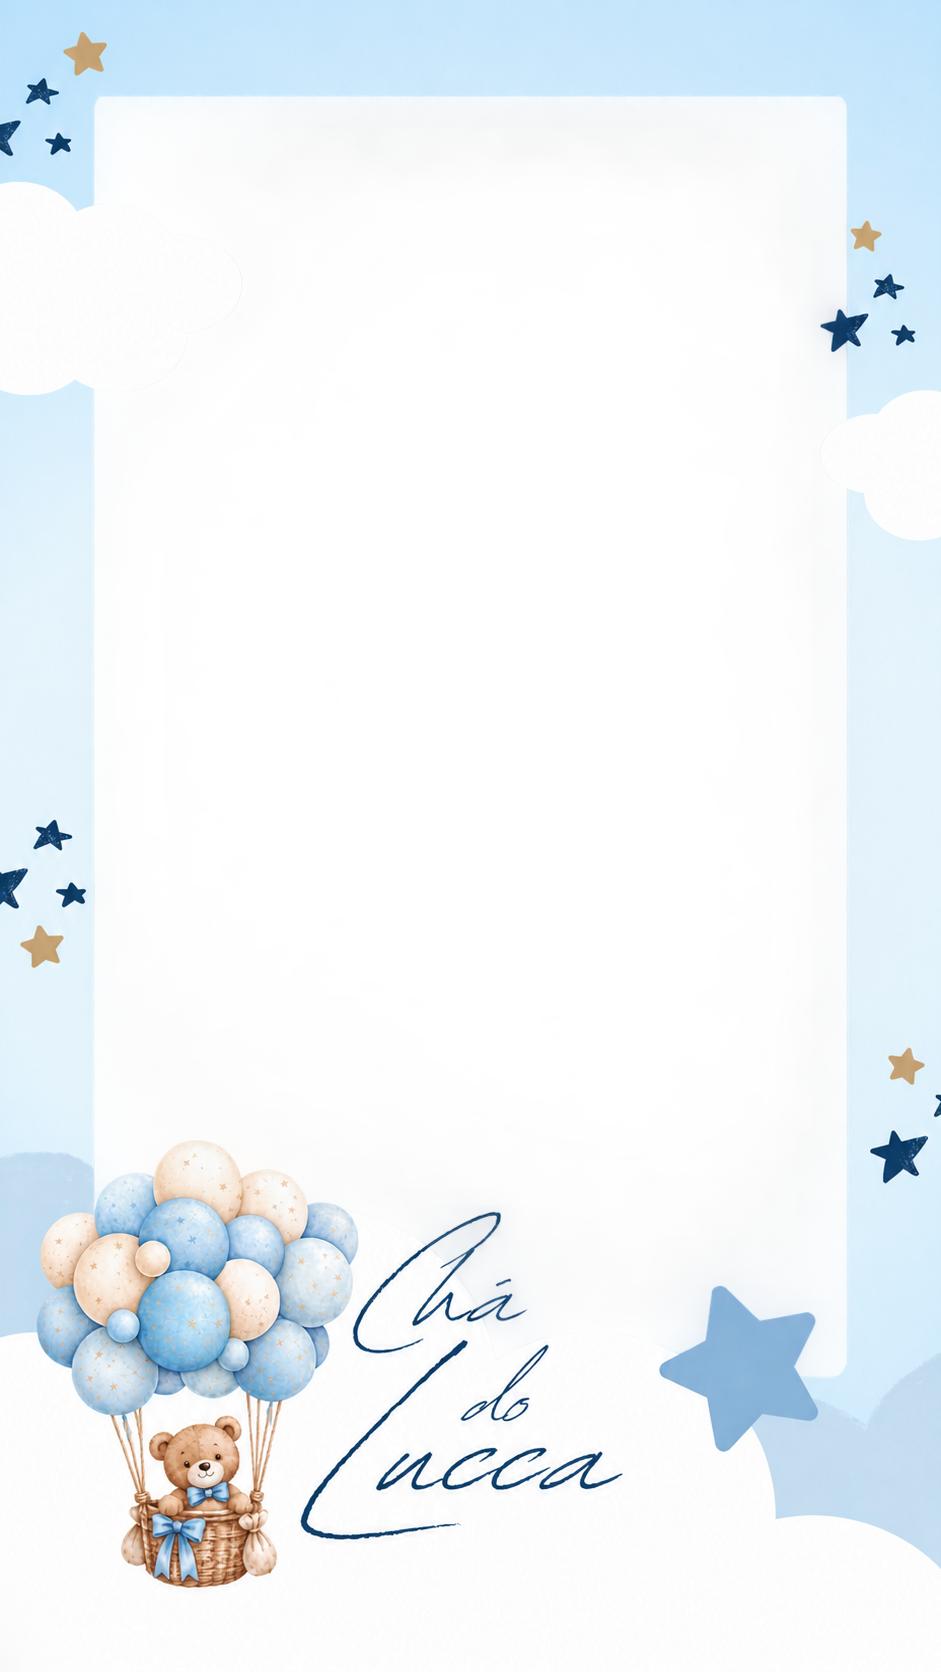
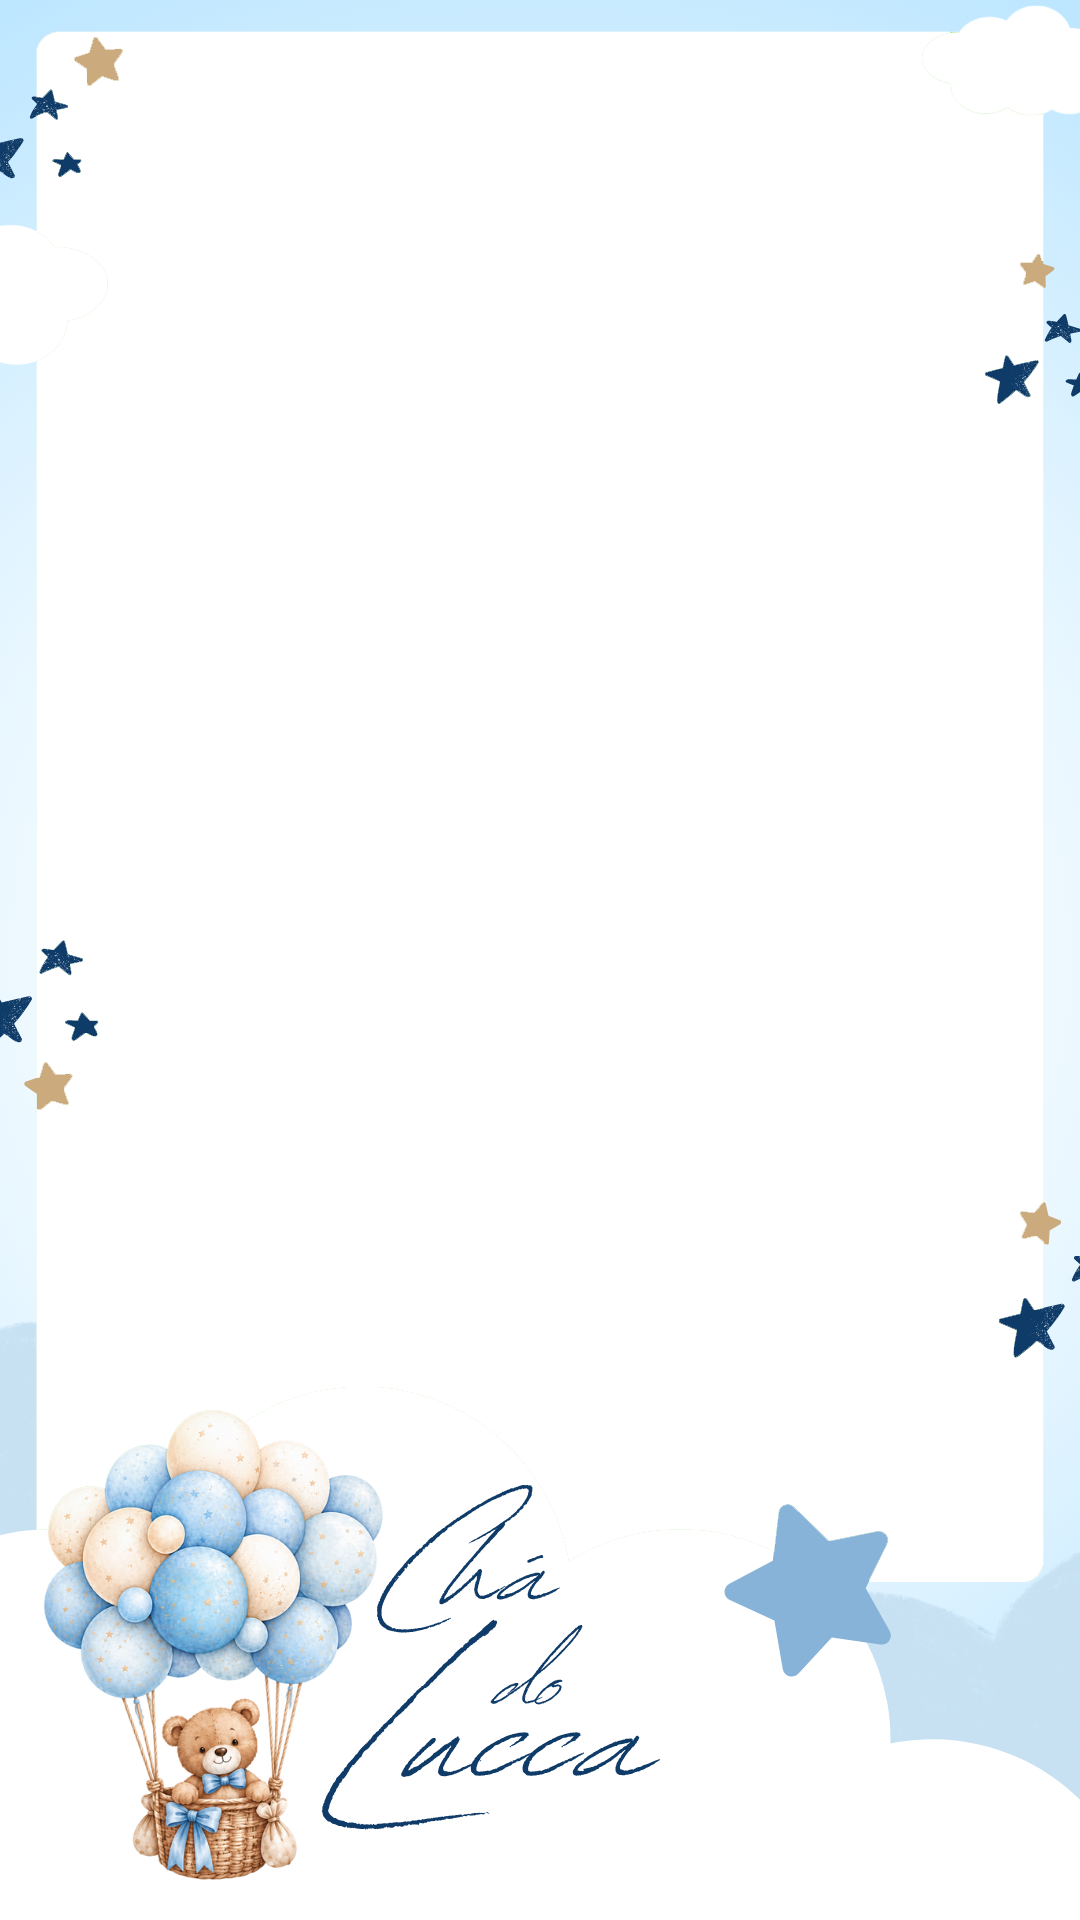
moldura cha do lucca

diff --git a/js/app.js b/js/app.js
@@ -32,7 +32,6 @@ function centerActivePill(smooth = true) {
   document.querySelector('.frame-pill[aria-pressed="true"]')
     ?.scrollIntoView({ inline: "center", block: "nearest", behavior: smooth ? "smooth" : "auto" });
 }
-
 function selectFrame(f) {
   state.frame = f;
   const img = $("#camFrame");
@@ -40,7 +39,6 @@ function selectFrame(f) {
   const id = f ? f.id : "none";
   document.querySelectorAll(".thumb,.frame-pill").forEach(t => t.setAttribute("aria-pressed", t.dataset.id === id));
   if (!$("#editor").hidden && state.photo) draw();
-  centerActivePill();
 }
 async function buildThumbs(box, pill = false) {
   box.innerHTML = "";
@@ -104,7 +102,6 @@ $("#btnCamera").onclick = async () => {
     await startCamera($("#video"), getFacing());
     await applyFlash();
     busy(); show("camera");
-    centerActivePill(false);
   } catch (e) {
     busy(); releaseCamera();
     toast(e.name === "NotAllowedError" ? "Permita o acesso à câmera ou use \"Escolher da galeria\"." : "Câmera indisponível. Use \"Escolher da galeria\".");

diff --git a/index.html b/index.html
@@ -9,8 +9,8 @@
 <link rel="preconnect" href="https://fonts.googleapis.com">
 <link rel="preconnect" href="https://fonts.gstatic.com" crossorigin>
 <link href="https://fonts.googleapis.com/css2?family=Alex+Brush&family=Plus+Jakarta+Sans:wght@400;500;600;700&display=swap" rel="stylesheet">
-<link rel="stylesheet" href="css/style.css?v=15">
-<script type="module" src="js/app.js?v=15"></script>
+<link rel="stylesheet" href="css/style.css?v=20">
+<script type="module" src="js/app.js?v=20"></script>
 </head>
 <body>
 <main id="home" class="view home">
